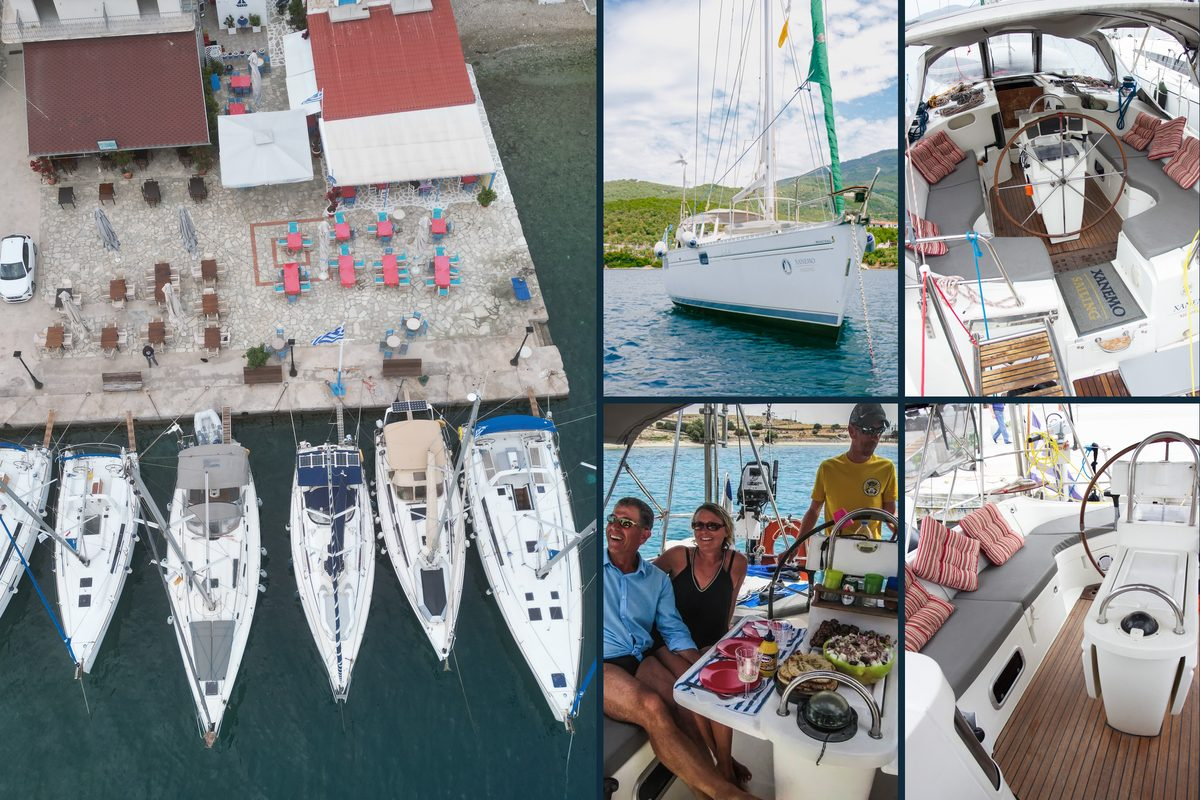
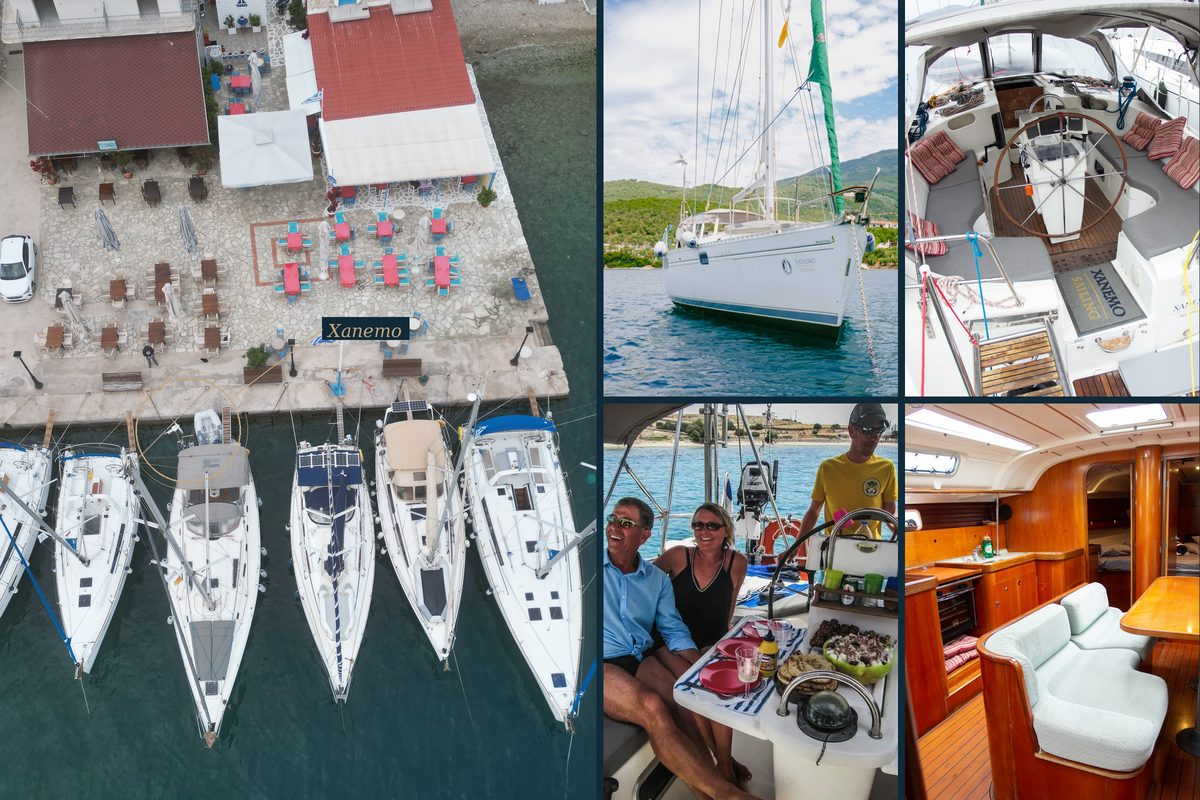
Home: nav menu + Special Places section; collage v2 with below-deck swap + Xanemo indicator; owner rebate 20% (2026 intro pricing) across all copy; remove unverified 18-knot claim

Changed region(s): [[0.74, 0.5, 1.0, 1.0], [0.2467, 0.375, 0.3392, 0.4375]]

diff --git a/docs/index.html b/docs/index.html
@@ -11,7 +11,7 @@
   <meta charset="utf-8">
   <meta name="viewport" content="width=device-width, initial-scale=1">
   <title>WeSail — Sporaderne, ombord på Xanemo, direkte fra ejeren</title>
-  <meta name="description" content="Xanemo — en Beneteau Oceanis 440 fra 1995, ejerversion, restaureret 2023. Sejler fra Volos i Sporaderne. Booket direkte hos ejeren; 10% under listepris i 2026.">
+  <meta name="description" content="Xanemo — en Beneteau Oceanis 440 fra 1995, ejerversion, restaureret 2023. Sejler fra Volos i Sporaderne. Booket direkte hos ejeren; 20% under listepris i 2026.">
   <meta property="og:title" content="WeSail — Sporaderne, ombord på Xanemo, direkte fra ejeren">
   <meta property="og:description" content="En klassisk Beneteau Oceanis 440, ejerversion. Sejler fra Volos gennem Sporaderne med græske kaptajner ejeren selv sejler med.">
   <meta property="og:image" content="https://www.wesailxp.com/public/pics/xanemo-hero.jpg">
@@ -40,18 +40,28 @@
     a { color: var(--navy); }
     .container { max-width: 880px; margin: 0 auto; padding: 0 28px; }
 
-    /* language switcher */
-    .lang-switcher {
-      position: fixed; top: 18px; right: 24px; z-index: 100;
-      background: rgba(255,255,255,0.92); backdrop-filter: blur(6px);
-      padding: 6px 12px; border-radius: 4px;
-      font-size: 0.85rem; letter-spacing: 0.08em; text-transform: uppercase; font-weight: 500;
-      box-shadow: 0 2px 8px rgba(16,42,58,0.12);
-    }
-    .lang-switcher a { color: var(--muted); text-decoration: none; padding: 0 6px; }
-    .lang-switcher a.active { color: var(--navy); font-weight: 600; }
-    .lang-switcher a:hover { color: var(--navy); }
-    .lang-switcher .sep { color: var(--rule); padding: 0 2px; }
+    /* main nav (matches content pages — see /getting-there.html etc) */
+    .main-nav { background: var(--navy); padding: 14px 28px; display: flex; align-items: center; gap: 28px; flex-wrap: wrap; font-size: 0.92rem; }
+    .main-nav .brand { font-family: 'Cormorant Garamond', serif; color: white; font-size: 1.25rem; text-decoration: none; font-weight: 500; }
+    .main-nav .links { display: flex; gap: 22px; flex: 1; flex-wrap: wrap; }
+    .main-nav .links a { color: rgba(255,255,255,0.82); text-decoration: none; }
+    .main-nav .links a:hover, .main-nav .links a.active { color: var(--sand); }
+    .main-nav .lang-mini { display: flex; gap: 2px; font-size: 0.78rem; letter-spacing: 0.1em; text-transform: uppercase; }
+    .main-nav .lang-mini a { color: rgba(255,255,255,0.6); text-decoration: none; padding: 0 6px; }
+    .main-nav .lang-mini a.active { color: white; font-weight: 600; }
+    .main-nav .lang-mini .sep { color: rgba(255,255,255,0.3); }
+    @media (max-width: 720px) { .main-nav { padding: 10px 16px; gap: 10px; font-size: 0.85rem; } .main-nav .links { gap: 14px; order: 3; flex-basis: 100%; } }
+
+    /* special places — placeholder card grid; Nikolaj fills photos + stories */
+    .special-places .grid { display: grid; grid-template-columns: repeat(3, 1fr); gap: 24px; max-width: 880px; }
+    @media (max-width: 720px) { .special-places .grid { grid-template-columns: 1fr 1fr; } }
+    @media (max-width: 480px) { .special-places .grid { grid-template-columns: 1fr; } }
+    .place { background: white; border: 1px solid var(--rule); overflow: hidden; }
+    .place .photo-stub { aspect-ratio: 4/3; background: linear-gradient(135deg, var(--rule) 0%, #d4cdb8 100%); display: flex; align-items: center; justify-content: center; color: var(--muted); font-style: italic; font-size: 0.8rem; }
+    .place .body { padding: 18px 20px; }
+    .place h3 { margin: 0 0 6px; font-size: 1.1rem; }
+    .place .description { font-size: 0.92rem; color: var(--ink); margin: 0 0 8px; }
+    .place .stub { font-size: 0.75rem; color: var(--sand); font-style: italic; letter-spacing: 0.04em; }
 
     /* hero */
     /* HERO PHOTO FRAMING — adjust 'background-position' if cliffs/dinghy get cropped.
@@ -123,8 +133,17 @@
 </head>
 <body>
 
-  <nav class="lang-switcher" aria-label="Sprog">
-    <a href="/" class="active" lang="da" hreflang="da">DA</a><span class="sep">|</span><a href="/en/" lang="en" hreflang="en">EN</a>
+  <nav class="main-nav" aria-label="Hovedmenu">
+    <a class="brand" href="/">WeSail</a>
+    <div class="links">
+      <a href="/" class="active">Forside</a>
+      <a href="/sailing-with-captain.html">Sejl med kaptajn</a>
+      <a href="/be-a-captain.html">Vær kaptajn</a>
+      <a href="/getting-there.html">Sådan kommer du derhen</a>
+    </div>
+    <div class="lang-mini">
+      <a href="/" class="active" lang="da" hreflang="da">DA</a><span class="sep">|</span><a href="/en/" lang="en" hreflang="en">EN</a>
+    </div>
   </nav>
 
   <header class="hero">
@@ -140,8 +159,15 @@
       <h2>Sådan er det her anderledes.</h2>
       <p>Første gang jeg sejlede i Grækenland var jeg fjorten og havde lige lært nok engelsk i skolen til at få en ven på en strand på Peloponnes. Han sejlede. Jeg sejlede. Vi skrev breve til hinanden i årevis bagefter. Jeg blev ved med at komme tilbage til Grækenland — først med venner, så med min egen familie, på chartrede både fra Kroatien, Danmark, Caribien, og altid, til sidst, Grækenland. Stederne jeg vendte tilbage til var de stille. Bugterne uden flåderne.</p>
       <p><em>Xanemo</em> er en 1995 Beneteau Oceanis 440, Jubilee edition — en <strong>ejerversion</strong>, ét rat i stedet for de to du ser på de nye charterbåde. Jeg købte hende, restaurerede hende i 2023, satte nye Quantum-sejl på, bovpropel, solceller og vindgenerator, og lagde hende i Volos. Hun er ikke ny. Hun har et teakdæk fra sidste år og 30 år af nogen-der-har-elsket-hende. Hun er en af de hurtigere både i området — det betyder god sejlads de dage der er vind, og gode ankerpladser de dage der ikke er.</p>
-      <p>Jeg deler hende med folk jeg kender og folk de kender. Bookinger kommer direkte: Odyssey Sailing i Volos klarer papirarbejdet og kaptajnerne; jeg klarer samtalerne. Gæster der booker direkte betaler 10% under listeprisen som standard, mere ved last-minute. Kaptajnerne er græske skippere jeg sejler med selv — Nasos, for eksempel, der også passer båden om vinteren.</p>
+      <p>Jeg deler hende med folk jeg kender og folk de kender. Bookinger kommer direkte: Odyssey Sailing i Volos klarer papirarbejdet og kaptajnerne; jeg klarer samtalerne. Gæster der booker direkte betaler 20% under listeprisen som standard, mere ved last-minute. Kaptajnerne er græske skippere jeg sejler med selv — Nasos, for eksempel, der også passer båden om vinteren.</p>
       <div class="pullquote">Hvis det tætteste du har hørt på det jeg beskriver er FTLF's gastebørs, bare uden kravet om at være i kulturen i forvejen — så ja, det er sådan her.</div>
+    </div>
+  </section>
+
+  <section style="padding: 50px 0; background: var(--linen);">
+    <div class="container" style="max-width: 1100px;">
+      <img src="public/pics/xanemo-overview.jpg" alt="Xanemo set fra droneoptik plus dækket, salon og en aften ombord" loading="lazy" style="width: 100%; height: auto; display: block; margin: 0 auto;">
+      <p style="text-align: center; color: var(--muted); font-style: italic; font-size: 0.92rem; margin: 16px auto 0; max-width: 560px;">Et samlet blik: Xanemo set fra oven, dækket, en aften ombord, et stykke Sporaderne. Klassisk båd, klassisk farvande.</p>
     </div>
   </section>
 
@@ -224,14 +250,14 @@
   <section class="pricing">
     <div class="container">
       <h2>Om prisen.</h2>
-      <p>Xanemo's offentliggjorte ugepris for 2026 varierer efter sæson, mellem €1.800 og €2.900. Direkte booking gennem mig giver <strong>10% rabat som standard</strong>, dybere ved last-minute. Odyssey Sailing i Volos klarer papirarbejdet — det er den operationelle rygrad, og deres del af kagen er det der får det hele til at fungere. Det direkte booking faktisk sparer, er de 20% som tredjeparts-portaler lægger oven i.</p>
+      <p>Xanemo's offentliggjorte ugepris for 2026 varierer efter sæson, mellem €1.800 og €2.900. Direkte booking gennem mig giver <strong>20% rabat som standard</strong>, dybere ved last-minute. Odyssey Sailing i Volos klarer papirarbejdet — det er den operationelle rygrad, og deres del af kagen er det der får det hele til at fungere. Det direkte booking faktisk sparer, er de 20% som tredjeparts-portaler lægger oven i.</p>
       <table class="rates">
         <tr><td>13. jun – 25. jul</td><td>€2.600</td></tr>
         <tr class="highlight"><td>25. jul – 22. aug</td><td>€2.800</td></tr>
         <tr class="highlight"><td>22. aug – 12. sep (højsæson)</td><td>€2.900</td></tr>
         <tr><td>12. sep – 26. sep</td><td>€2.500</td></tr>
       </table>
-      <p style="margin-top: 24px;">En skipperet uge er listeprisen (minus 10%) plus kaptajnens dagpenge. To uger bareboat er to listepriser (minus 10%) plus et tilbagebetalbart depositum. Diesel ud over en startmængde, havneafgifter og forplejning er ekstra.</p>
+      <p style="margin-top: 24px;">En skipperet uge er listeprisen (minus 20%) plus kaptajnens dagpenge. To uger bareboat er to listepriser (minus 20%) plus et tilbagebetalbart depositum. Diesel ud over en startmængde, havneafgifter og forplejning er ekstra.</p>
       <p>Skriv til mig med dine datoer. Jeg vender tilbage samme dag med den eksakte pris og hvad der er inkluderet.</p>
       <p style="margin-top:28px;"><a class="btn" href="mailto:nikolaj@sitehub.dk?subject=Ledige%20uger%20%E2%80%94%20Xanemo">Send dine datoer →</a></p>
     </div>
@@ -262,6 +288,63 @@
               <div class="name">⟨ Gæstens navn ⟩</div>
               <div class="role">Bareboat 14 dage, maj 2024 — fire i besætningen</div>
             </div>
+          </div>
+        </div>
+      </div>
+    </div>
+  </section>
+
+  <section class="special-places">
+    <div class="container">
+      <h2>Steder værd at huske.</h2>
+      <p style="margin-bottom: 36px;">Et udvalg af ankerpladser, bugter og småhavne fra Sporaderne og Pelion-kysten. Hver med en kort historie. Et klikbart kort kommer, når billederne er sat sammen.</p>
+      <div class="grid">
+        <div class="place">
+          <div class="photo-stub">⟨ Foto ⟩</div>
+          <div class="body">
+            <h3>Skopelos by</h3>
+            <p class="description">Den hvide trappe op til Mamma Mia-kirken, smalle gader, fiskeretter på terrasser.</p>
+            <p class="stub">Historie kommer fra Nikolaj</p>
+          </div>
+        </div>
+        <div class="place">
+          <div class="photo-stub">⟨ Foto ⟩</div>
+          <div class="body">
+            <h3>Steni Vala, Alonissos</h3>
+            <p class="description">Fiskertaverna med dagens fangst, godt ly for nordvest, en af de bedste aftener i ugen.</p>
+            <p class="stub">Historie kommer fra Nikolaj</p>
+          </div>
+        </div>
+        <div class="place">
+          <div class="photo-stub">⟨ Foto ⟩</div>
+          <div class="body">
+            <h3>Kyra Panagia</h3>
+            <p class="description">Inde i marineparken. Anker alene, klosterruin på højen, sæler hvis I er heldige.</p>
+            <p class="stub">Historie kommer fra Nikolaj</p>
+          </div>
+        </div>
+        <div class="place">
+          <div class="photo-stub">⟨ Foto ⟩</div>
+          <div class="body">
+            <h3>Trikeri, Pelion-halvøen</h3>
+            <p class="description">Gammel fiskerlandsby. Naturlig første nat på vej ud fra Volos.</p>
+            <p class="stub">Historie kommer fra Nikolaj</p>
+          </div>
+        </div>
+        <div class="place">
+          <div class="photo-stub">⟨ Foto ⟩</div>
+          <div class="body">
+            <h3>Damouchari, Pelion</h3>
+            <p class="description">Mamma Mia-bugten. Klart vand under stejle skrænter, lille havn på vej tilbage.</p>
+            <p class="stub">Historie kommer fra Nikolaj</p>
+          </div>
+        </div>
+        <div class="place">
+          <div class="photo-stub">⟨ Foto ⟩</div>
+          <div class="body">
+            <h3>Volos havnefront</h3>
+            <p class="description">Tsipouradiko ved solnedgang, en lokal specialitet. Anbefales før eller efter chartret.</p>
+            <p class="stub">Historie kommer fra Nikolaj</p>
           </div>
         </div>
       </div>

diff --git a/docs/en/index.html b/docs/en/index.html
@@ -11,7 +11,7 @@
   <meta charset="utf-8">
   <meta name="viewport" content="width=device-width, initial-scale=1">
   <title>WeSail — Xanemo, the Sporades, direct from the owner</title>
-  <meta name="description" content="Xanemo — a 1995 Beneteau Oceanis 440, owner's version, refit 2023. Sailed from Volos in the Sporades. Booked direct from the owner; 10% off the published 2026 rate.">
+  <meta name="description" content="Xanemo — a 1995 Beneteau Oceanis 440, owner's version, refit 2023. Sailed from Volos in the Sporades. Booked direct from the owner; 20% off the published 2026 rate.">
   <meta property="og:title" content="WeSail — Xanemo, the Sporades, direct from the owner">
   <meta property="og:description" content="A classic Beneteau Oceanis 440, owner's version. Sailed from Volos through the Sporades by Greek captains the owner sails with himself.">
   <meta property="og:image" content="https://www.wesailxp.com/public/pics/xanemo-hero.jpg">
@@ -40,18 +40,28 @@
     a { color: var(--navy); }
     .container { max-width: 880px; margin: 0 auto; padding: 0 28px; }
 
-    /* language switcher */
-    .lang-switcher {
-      position: fixed; top: 18px; right: 24px; z-index: 100;
-      background: rgba(255,255,255,0.92); backdrop-filter: blur(6px);
-      padding: 6px 12px; border-radius: 4px;
-      font-size: 0.85rem; letter-spacing: 0.08em; text-transform: uppercase; font-weight: 500;
-      box-shadow: 0 2px 8px rgba(16,42,58,0.12);
-    }
-    .lang-switcher a { color: var(--muted); text-decoration: none; padding: 0 6px; }
-    .lang-switcher a.active { color: var(--navy); font-weight: 600; }
-    .lang-switcher a:hover { color: var(--navy); }
-    .lang-switcher .sep { color: var(--rule); padding: 0 2px; }
+    /* main nav (matches content pages — see /en/getting-there.html etc) */
+    .main-nav { background: var(--navy); padding: 14px 28px; display: flex; align-items: center; gap: 28px; flex-wrap: wrap; font-size: 0.92rem; }
+    .main-nav .brand { font-family: 'Cormorant Garamond', serif; color: white; font-size: 1.25rem; text-decoration: none; font-weight: 500; }
+    .main-nav .links { display: flex; gap: 22px; flex: 1; flex-wrap: wrap; }
+    .main-nav .links a { color: rgba(255,255,255,0.82); text-decoration: none; }
+    .main-nav .links a:hover, .main-nav .links a.active { color: var(--sand); }
+    .main-nav .lang-mini { display: flex; gap: 2px; font-size: 0.78rem; letter-spacing: 0.1em; text-transform: uppercase; }
+    .main-nav .lang-mini a { color: rgba(255,255,255,0.6); text-decoration: none; padding: 0 6px; }
+    .main-nav .lang-mini a.active { color: white; font-weight: 600; }
+    .main-nav .lang-mini .sep { color: rgba(255,255,255,0.3); }
+    @media (max-width: 720px) { .main-nav { padding: 10px 16px; gap: 10px; font-size: 0.85rem; } .main-nav .links { gap: 14px; order: 3; flex-basis: 100%; } }
+
+    /* special places */
+    .special-places .grid { display: grid; grid-template-columns: repeat(3, 1fr); gap: 24px; max-width: 880px; }
+    @media (max-width: 720px) { .special-places .grid { grid-template-columns: 1fr 1fr; } }
+    @media (max-width: 480px) { .special-places .grid { grid-template-columns: 1fr; } }
+    .place { background: white; border: 1px solid var(--rule); overflow: hidden; }
+    .place .photo-stub { aspect-ratio: 4/3; background: linear-gradient(135deg, var(--rule) 0%, #d4cdb8 100%); display: flex; align-items: center; justify-content: center; color: var(--muted); font-style: italic; font-size: 0.8rem; }
+    .place .body { padding: 18px 20px; }
+    .place h3 { margin: 0 0 6px; font-size: 1.1rem; }
+    .place .description { font-size: 0.92rem; color: var(--ink); margin: 0 0 8px; }
+    .place .stub { font-size: 0.75rem; color: var(--sand); font-style: italic; letter-spacing: 0.04em; }
 
     /* hero */
     /* HERO PHOTO FRAMING — see comment in /index.html. background-position controls focal point. */
@@ -121,8 +131,17 @@
 </head>
 <body>
 
-  <nav class="lang-switcher" aria-label="Language">
-    <a href="/" lang="da" hreflang="da">DA</a><span class="sep">|</span><a href="/en/" class="active" lang="en" hreflang="en">EN</a>
+  <nav class="main-nav" aria-label="Main menu">
+    <a class="brand" href="/en/">WeSail</a>
+    <div class="links">
+      <a href="/en/" class="active">Home</a>
+      <a href="/en/sailing-with-captain.html">Sail with a captain</a>
+      <a href="/en/be-a-captain.html">Be a captain</a>
+      <a href="/en/getting-there.html">Getting there</a>
+    </div>
+    <div class="lang-mini">
+      <a href="/" lang="da" hreflang="da">DA</a><span class="sep">|</span><a href="/en/" class="active" lang="en" hreflang="en">EN</a>
+    </div>
   </nav>
 
   <header class="hero">
@@ -138,8 +157,15 @@
       <h2>How this is different.</h2>
       <p>The first time I sailed in Greece I was fourteen and had just learned enough English to make a friend on a beach in the Peloponnese. He sailed. I sailed. We wrote letters to each other for years afterwards. I kept coming back to Greece — first with friends, then with my own family, on chartered boats out of Croatia, Denmark, the Caribbean, and always, eventually, Greece. The places I came back to were the quiet ones. The bays without the fleet.</p>
       <p><em>Xanemo</em> is a 1995 Beneteau Oceanis 440, Jubilee edition — an <strong>owner's version</strong>, one wheel rather than the two you see on the modern charter boats. I bought her, refit her in 2023, fitted new Quantum sails, a bow thruster, solar and a wind generator, and put her in Volos. She is not new. She has a teak cockpit laid last year and 30 years of someone-having-loved-her. She is one of the faster boats in the area — which means good sailing on the days there's wind, and good anchorages on the days there isn't.</p>
-      <p>I share her with people I know, and people they know. Bookings come direct: Odyssey Sailing in Volos handles the paperwork and the captains; I handle the conversations. Direct-booked guests pay 10% under the published rate as standard, deeper for last-minute. The captains are Greek skippers I sail with myself — Nasos, for one, who also keeps the boat through the winter.</p>
+      <p>I share her with people I know, and people they know. Bookings come direct: Odyssey Sailing in Volos handles the paperwork and the captains; I handle the conversations. Direct-booked guests pay 20% under the published rate as standard, deeper for last-minute. The captains are Greek skippers I sail with myself — Nasos, for one, who also keeps the boat through the winter.</p>
       <div class="pullquote">If the closest thing you've heard to this is FTLF's gastebørs, but without the requirement to already be in the subculture — yes, this is that.</div>
+    </div>
+  </section>
+
+  <section style="padding: 50px 0; background: var(--linen);">
+    <div class="container" style="max-width: 1100px;">
+      <img src="../public/pics/xanemo-overview.jpg" alt="Xanemo from the drone, plus deck, saloon and an evening onboard" loading="lazy" style="width: 100%; height: auto; display: block; margin: 0 auto;">
+      <p style="text-align: center; color: var(--muted); font-style: italic; font-size: 0.92rem; margin: 16px auto 0; max-width: 560px;">A composite view: Xanemo from above, on deck, an evening onboard, a piece of the Sporades. Classic boat, classic waters.</p>
     </div>
   </section>
 
@@ -222,14 +248,14 @@
   <section class="pricing">
     <div class="container">
       <h2>About the price.</h2>
-      <p>Xanemo's published 2026 weekly rate is set by season, between €1,800 and €2,900. Direct booking through me gets <strong>10% off as standard</strong>, deeper for last-minute. Odyssey Sailing in Volos handles the paperwork — they're the operational backbone, and their cut is what makes the whole thing work. What direct booking actually skips is the 20% that third-party rental portals layer on top.</p>
+      <p>Xanemo's published 2026 weekly rate is set by season, between €1,800 and €2,900. Direct booking through me gets <strong>20% off as standard</strong>, deeper for last-minute. Odyssey Sailing in Volos handles the paperwork — they're the operational backbone, and their cut is what makes the whole thing work. What direct booking actually skips is the 20% that third-party rental portals layer on top.</p>
       <table class="rates">
         <tr><td>13 Jun – 25 Jul</td><td>€2,600</td></tr>
         <tr class="highlight"><td>25 Jul – 22 Aug</td><td>€2,800</td></tr>
         <tr class="highlight"><td>22 Aug – 12 Sep (peak)</td><td>€2,900</td></tr>
         <tr><td>12 Sep – 26 Sep</td><td>€2,500</td></tr>
       </table>
-      <p style="margin-top: 24px;">A skippered week is the matrix rate (less 10%) plus the captain's day rate. A bareboat fortnight is two matrix weeks (less 10%) plus a refundable damage deposit. Fuel beyond a starting allowance, marina fees, and provisioning are extras.</p>
+      <p style="margin-top: 24px;">A skippered week is the matrix rate (less 20%) plus the captain's day rate. A bareboat fortnight is two matrix weeks (less 20%) plus a refundable damage deposit. Fuel beyond a starting allowance, marina fees, and provisioning are extras.</p>
       <p>Write to me with your dates. I'll come back the same day with the exact number and what's included.</p>
       <p style="margin-top:28px;"><a class="btn" href="mailto:nikolaj@sitehub.dk?subject=Available%20weeks%20%E2%80%94%20Xanemo">Send your dates →</a></p>
     </div>
@@ -260,6 +286,63 @@
               <div class="name">⟨ Guest name ⟩</div>
               <div class="role">Bareboat fortnight, May 2024 — four crew</div>
             </div>
+          </div>
+        </div>
+      </div>
+    </div>
+  </section>
+
+  <section class="special-places">
+    <div class="container">
+      <h2>Places worth remembering.</h2>
+      <p style="margin-bottom: 36px;">A selection of anchorages, bays, and small harbours from the Sporades and the Pelion coast. Each with a short story. An interactive map coming once the photos are in.</p>
+      <div class="grid">
+        <div class="place">
+          <div class="photo-stub">⟨ Photo ⟩</div>
+          <div class="body">
+            <h3>Skopelos town</h3>
+            <p class="description">The white steps up to the Mamma Mia chapel, narrow lanes, fish dinners on terraces.</p>
+            <p class="stub">Story to come from Nikolaj</p>
+          </div>
+        </div>
+        <div class="place">
+          <div class="photo-stub">⟨ Photo ⟩</div>
+          <div class="body">
+            <h3>Steni Vala, Alonissos</h3>
+            <p class="description">Fisherman's taverna with the day's catch, good shelter from NW wind, one of the best evenings of the week.</p>
+            <p class="stub">Story to come from Nikolaj</p>
+          </div>
+        </div>
+        <div class="place">
+          <div class="photo-stub">⟨ Photo ⟩</div>
+          <div class="body">
+            <h3>Kyra Panagia</h3>
+            <p class="description">Inside the marine park. Anchor alone, monastery ruin on the hill, seals if you're lucky.</p>
+            <p class="stub">Story to come from Nikolaj</p>
+          </div>
+        </div>
+        <div class="place">
+          <div class="photo-stub">⟨ Photo ⟩</div>
+          <div class="body">
+            <h3>Trikeri, Pelion peninsula</h3>
+            <p class="description">Old fishing village. The natural first night out from Volos.</p>
+            <p class="stub">Story to come from Nikolaj</p>
+          </div>
+        </div>
+        <div class="place">
+          <div class="photo-stub">⟨ Photo ⟩</div>
+          <div class="body">
+            <h3>Damouchari, Pelion</h3>
+            <p class="description">The Mamma Mia bay. Clear water under steep cliffs, small harbour on the way back.</p>
+            <p class="stub">Story to come from Nikolaj</p>
+          </div>
+        </div>
+        <div class="place">
+          <div class="photo-stub">⟨ Photo ⟩</div>
+          <div class="body">
+            <h3>Volos waterfront</h3>
+            <p class="description">Tsipouradiko at sunset, a local specialty. Recommended before or after the charter.</p>
+            <p class="stub">Story to come from Nikolaj</p>
           </div>
         </div>
       </div>

diff --git a/docs/en/sailing-with-captain.html b/docs/en/sailing-with-captain.html
@@ -145,7 +145,7 @@ footer a { color: rgba(244,239,230,0.9); }
     <div class="container">
       <h2>Rates and practical stuff.</h2>
       <h3>Charter price for the boat</h3>
-      <p>See <a href="/en/#pricing">the pricing section on the home page</a>. 10% off published rate for direct booking.</p>
+      <p>See <a href="/en/#pricing">the pricing section on the home page</a>. 20% off published rate for direct booking.</p>
 
       <h3>Captain's day rate</h3>
       <table class="kv">

diff --git a/docs/sailing-with-captain.html b/docs/sailing-with-captain.html
@@ -145,7 +145,7 @@ footer a { color: rgba(244,239,230,0.9); }
     <div class="container">
       <h2>Priser og det praktiske.</h2>
       <h3>Charterprisen for båden</h3>
-      <p>Se <a href="/#pricing">prissektionen på forsiden</a>. 10% under listepris ved direkte booking.</p>
+      <p>Se <a href="/#pricing">prissektionen på forsiden</a>. 20% under listepris ved direkte booking.</p>
 
       <h3>Kaptajnens dagpenge</h3>
       <table class="kv">
